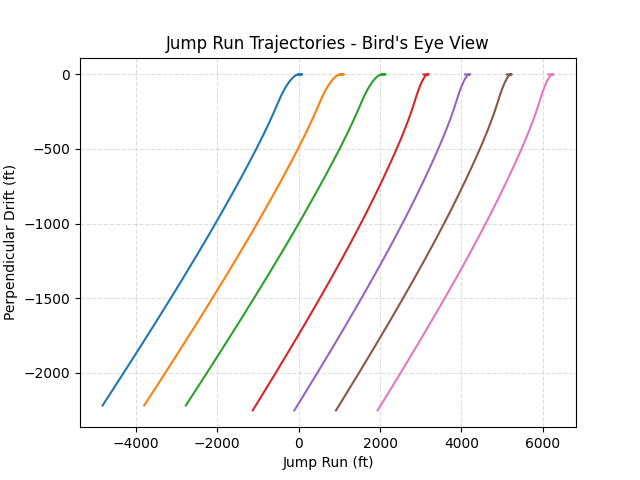
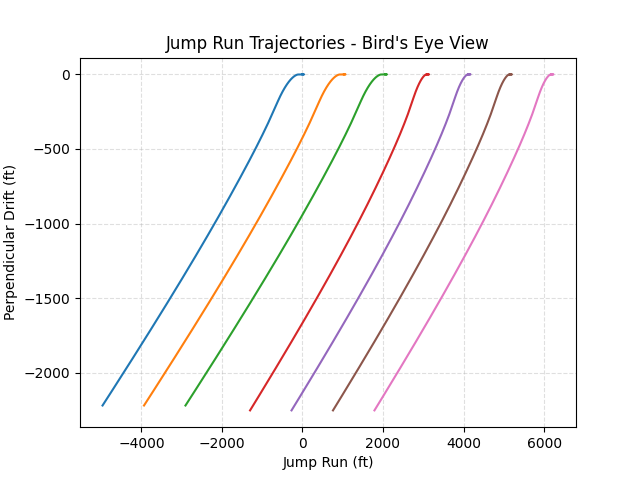
Got rid of globals in wind.py, added AIRCRAFT_SPEEDS to const.py

diff --git a/winds.py b/winds.py
@@ -5,31 +5,34 @@ import numpy as np
 import const
 from termcolor import colored
 
+# Get winds aloft forecast for ACY
 def get_ACY_forecast(url):
-    for line in file:
+    file_lines = urlopen(url)
+    for line in file_lines:
         decoded_line = line.decode("utf-8")
         if "ACY " in decoded_line:
             return decoded_line
 
-url = "https://www.aviationweather.gov/windtemp/data?level=low&fcst=06&region=bos&layout=on&date="
-file = urlopen(url)
-
-data_points = get_ACY_forecast(file).strip().split(' ')
-
-# Get 3000, 6000, 9000, 12000, and 18000 feet forecasts
-altitudes = [3000, 6000, 9000, 12000, 18000]
-forecast = {}
-for i, val in enumerate(data_points):
-    if i < len(altitudes): forecast[altitudes[i]] = data_points[i+1]
-    else: break
-
-winds = {}
-for altitude in forecast.keys():
-    direction = int(forecast[altitude][0:2])*10
-    speed = int(forecast[altitude][2:4])
-    winds[altitude] = (direction, speed)
 
 def get_forecast():
+    # Winds aloft URL
+    url = "https://www.aviationweather.gov/windtemp/data?level=low&fcst=06&region=bos&layout=on&date="
+    altitudes = [3000, 6000, 9000, 12000, 18000]
+    winds = {}
+    forecast = {}
+
+    data_points = get_ACY_forecast(url).strip().split(' ')
+
+    # Get 3000, 6000, 9000, 12000, and 18000 feet forecasts
+    for i, val in enumerate(data_points):
+        if i < len(altitudes): forecast[altitudes[i]] = data_points[i+1]
+        else: break
+
+    for altitude in forecast.keys():
+        direction = int(forecast[altitude][0:2])*10
+        speed = int(forecast[altitude][2:4])
+        winds[altitude] = (direction, speed)
+
     return winds
 
 def compass_rotate(winds):
@@ -123,8 +126,11 @@ def print_winds(winds, aircraft, exit_alt):
 
 def exit_sep_chart(exit_uppers, aircraft):
     # Using values from https://www.dropzone.com/articles/safety/exit-separation-r876/
-    if "Caravan" in aircraft:
-        V_tas = 70
+
+    # Get aircraft-dependent TAS (true airspeed), in knots 
+    V_tas = const.AIRCRAFT_SPEEDS.get(aircraft)
+
+    # Compute ground speed based on (1) aircraft airspeed and (2) uppers at EXIT_ALT
     V_g = V_tas - exit_uppers
     exit_sep = {
         100: 6,

diff --git a/const.py b/const.py
@@ -15,6 +15,12 @@ A_BELLY = 16.0*68.0 / 144.0 * 0.7 # Estimated Human body surface area - see NOTE
 
 # MISC CONSTANTS
 BLAZE_IT = 420
+AIRCRAFT_SPEEDS = {     # In knots
+    "Caravan"   : 70,
+    "Otter"     : 60,
+    "Skyvan"    : 90,
+    "Cessna 182": 55
+}
 
 # NOTE 1:                                                                      
 # Human body surface area -- Estimated by taking my width*height in inches,    

diff --git a/main.py b/main.py
@@ -255,12 +255,7 @@ if __name__ == "__main__":
     winds = wind.get_forecast()
 
     # Aircraft speeds TODO: Verify these! Units in knots
-    aircraft_speeds = {
-        "Caravan"   : 70,
-        "Otter"     : 60,
-        "Skyvan"    : 90,
-        "Cessna 182": 55
-    }
+    aircraft_speeds = const.AIRCRAFT_SPEEDS
 
     main_menu(winds)
 
